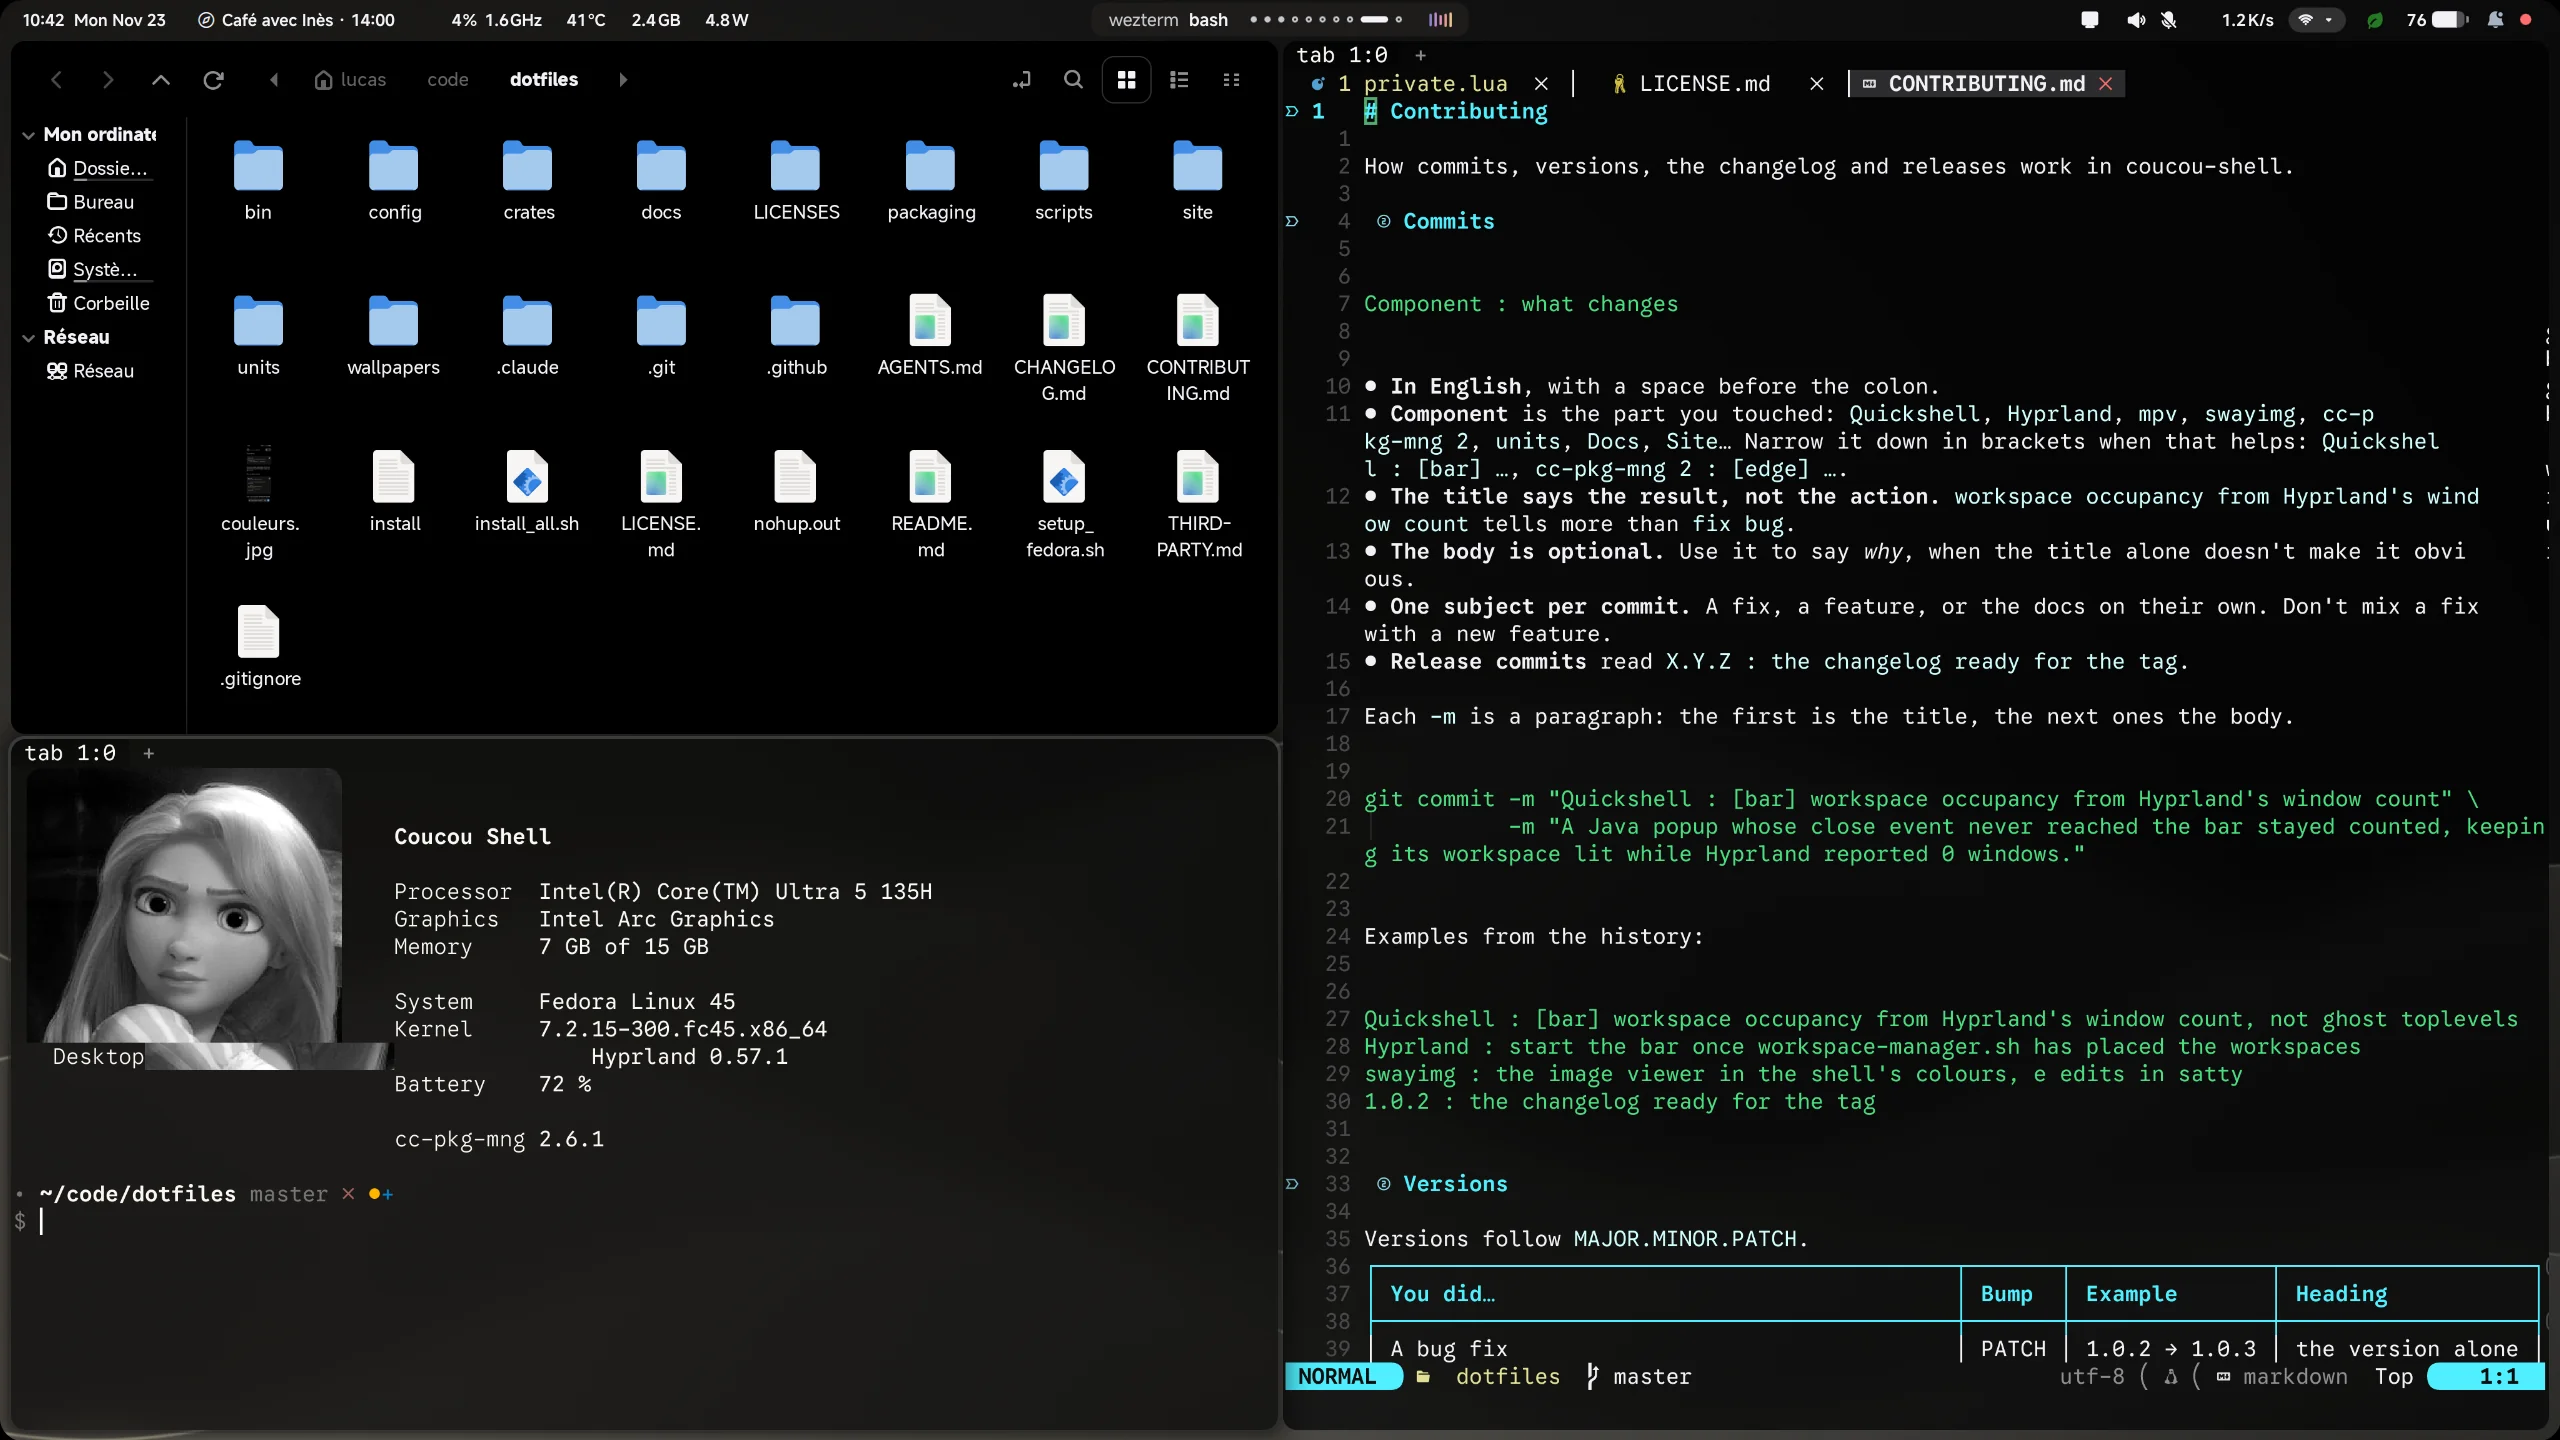
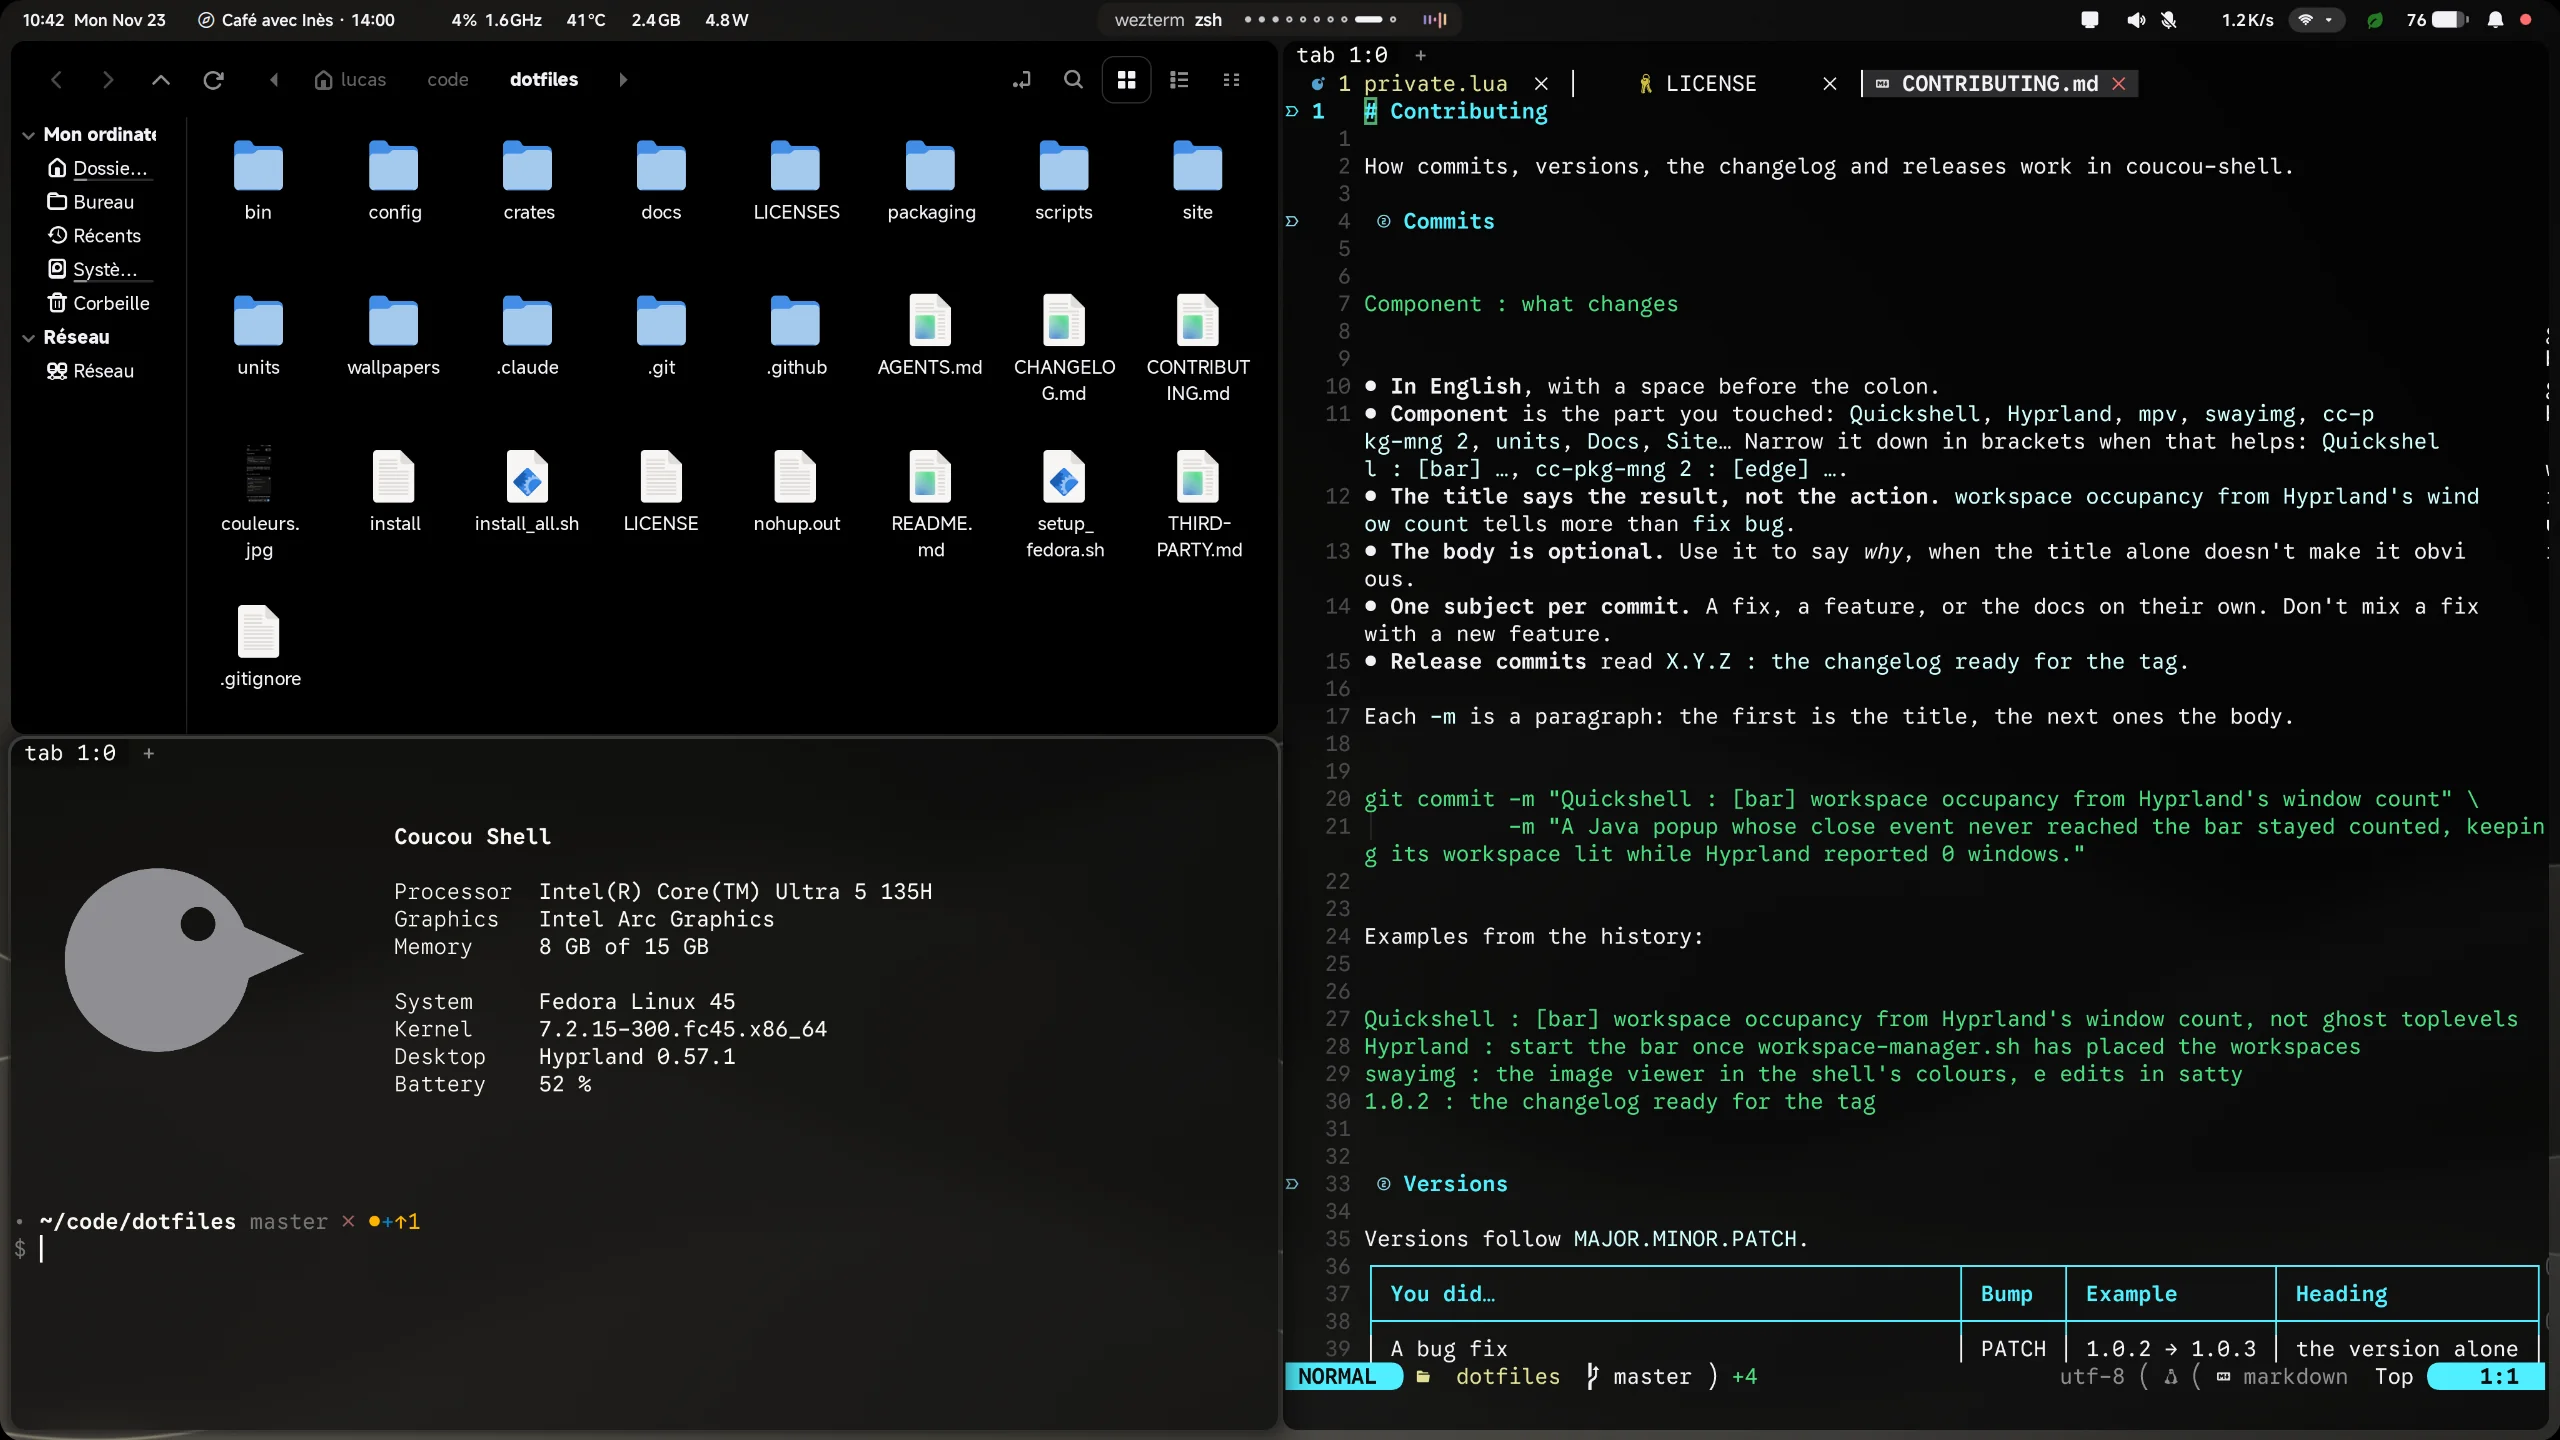
config-extras : fastfetch shows the coucou bird in place of Rapunzel
A picture the project can't license goes; the work screenshot is retaken
with the bird. The scene waits for the terminal to tile before fastfetch,
or the lines land misaligned.

diff --git a/CHANGELOG.md b/CHANGELOG.md
@@ -6,6 +6,7 @@ Versions follow `MAJOR.MINOR.PATCH`, and each release is a git tag (`v1.0.0`). M
 
 ### Changed
 - **Licence:** coucou-shell is now free software, under the GPL-3.0 or any later version. The coucou wallpapers and bird are under CC BY-SA 4.0.
+- **config-extras:** fastfetch shows the coucou bird in place of Rapunzel.
 
 ## 2.7.0 (November 23 2026)
 
